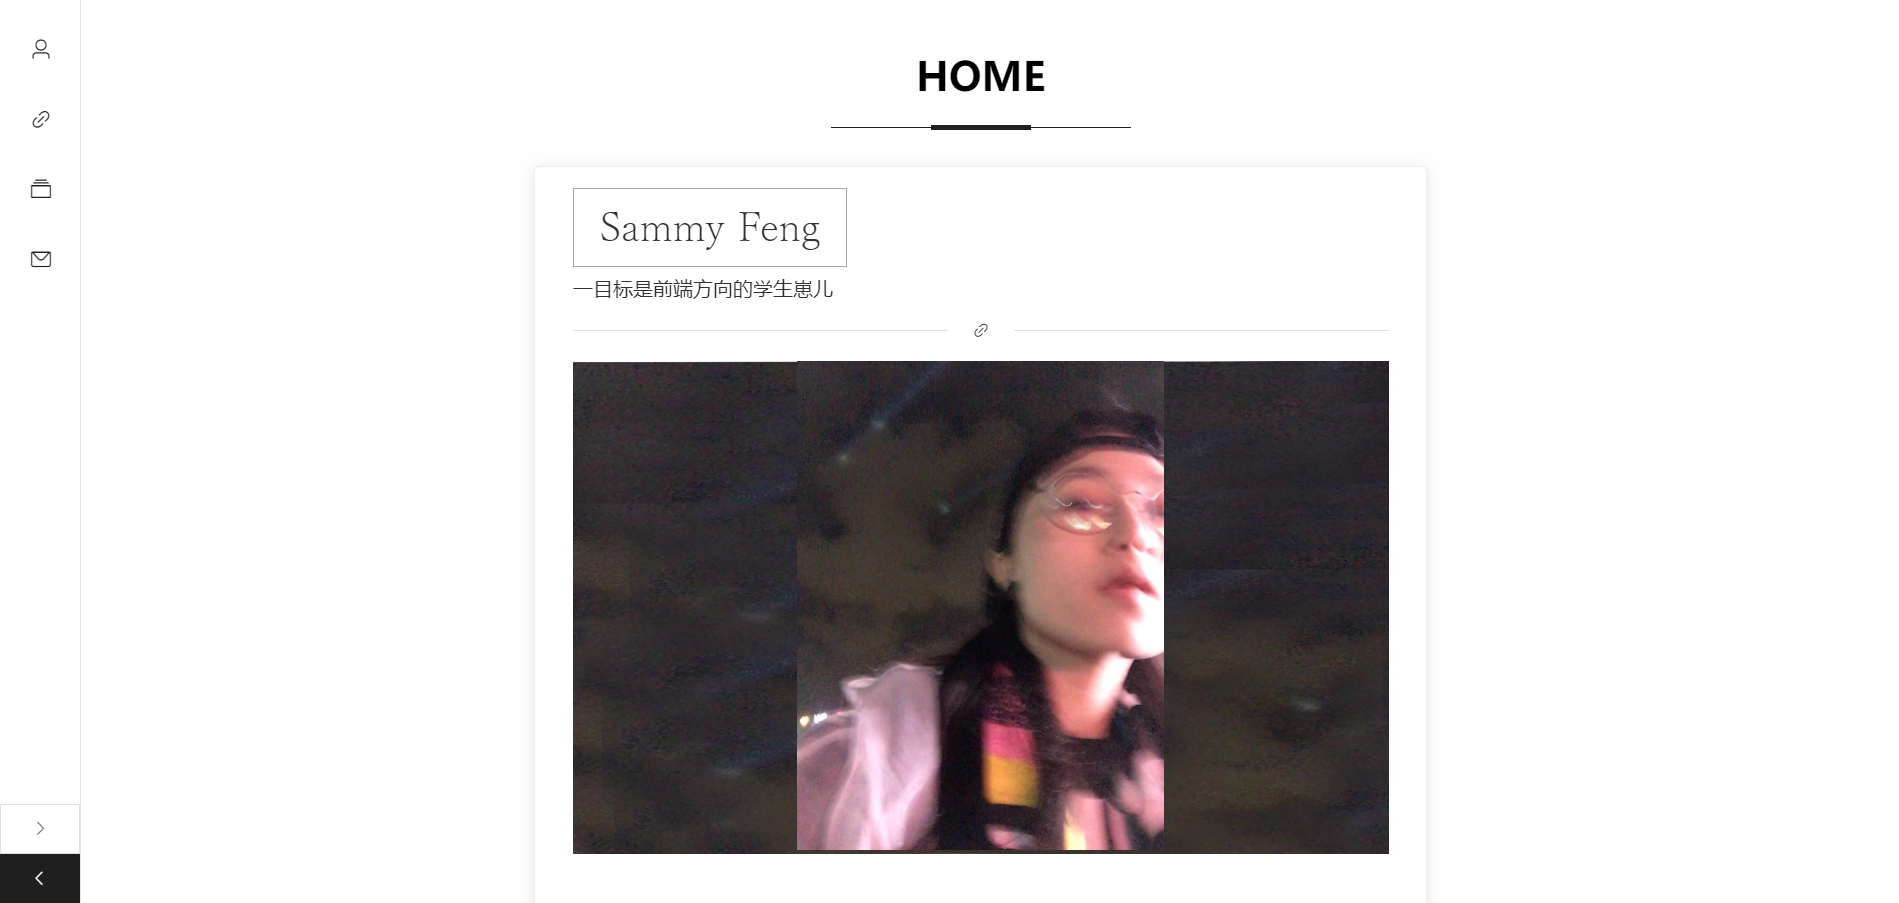
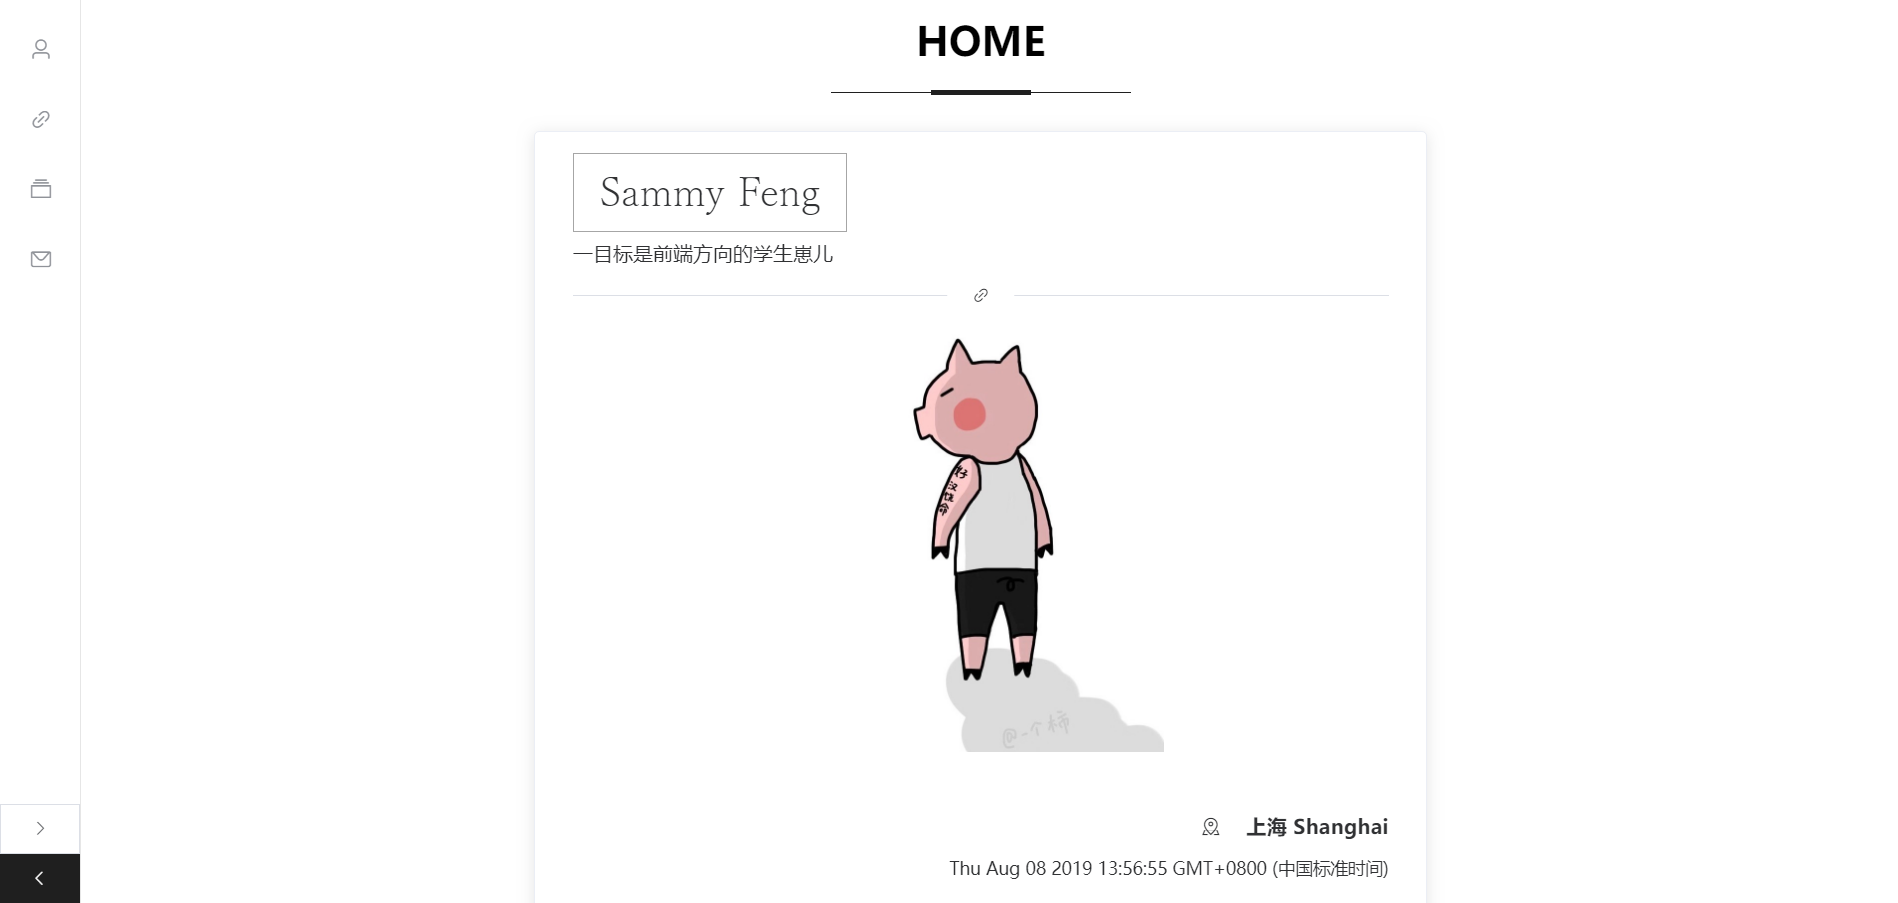
update my resume

Changed region(s): [[0.2798, 0.3721, 0.746, 0.9922], [0.3109, 0.186, 0.4352, 0.3411], [0.4663, 0.031, 0.5595, 0.155]]

diff --git a/my-homepage/src/assets/echarts/frontendSkillsBarChart.js b/my-homepage/src/assets/echarts/frontendSkillsBarChart.js
@@ -6,7 +6,7 @@ export const frontendOption = {
 
   },
   yAxis: {
-    data: ['React', 'Angular', 'Vue', 'AngularJS', 'Jquery', 'Bootstrap', 'Javascript', 'CSS(3)', 'HTML(5)'],
+    data: ['React', 'Angular', 'Vue', 'Jquery', 'Bootstrap', 'Javascript', 'CSS(3)', 'HTML(5)'],
     name: '前端技术',
     nameLocation: 'end',
     axisLabel: {
@@ -18,7 +18,7 @@ export const frontendOption = {
     name: '熟练度',
     type: 'bar',
     barWidth: '50%',
-    data: [20, 40, 50, 60, 80, 85, 65, 95, 90],
+    data: [20, 40, 50, 75, 70, 85, 75, 95, 90],
     itemStyle: {
       normal: {
         color: '#434dc6'

diff --git a/my-homepage/src/views/Home.vue b/my-homepage/src/views/Home.vue
@@ -26,7 +26,7 @@
 </template>
 
 <script>
-import MyPhoto from '@/assets/images/photo.jpg'
+import MyPhoto from '../../public/images/hp-photo.jpg'
 import TheTitle from '@/components/TheTitle.vue'
 
 export default {
@@ -49,8 +49,9 @@ export default {
 <style lang="scss" scoped>
   .photo-wrap{
     width:100%;
-    background-image: url('../assets/images/photocard-bg.jpg');
-    background-size: cover;
+    background-color: #fff;
+/*    background-image: url('../assets/images/photocard-bg.jpg');
+    background-size: cover;*/
     text-align: center;
   }
   .photo-card{

diff --git a/my-homepage/src/assets/echarts/otherSkillsBarChart.js b/my-homepage/src/assets/echarts/otherSkillsBarChart.js
@@ -5,7 +5,7 @@ export const otherOption = {
     max: 100
   },
   yAxis: {
-    data: ['Android', 'Git', 'Webpack', 'SQL', 'Photoshop'],
+    data: ['Android', 'Webpack', '部署发布', 'SQL', 'Photoshop', 'Git'],
     name: '其他技术',
     axisLabel: {
       interval: 0,
@@ -15,7 +15,7 @@ export const otherOption = {
   series: [{
     name: '熟练度',
     type: 'bar',
-    data: [30, 60, 60, 70, 90],
+    data: [30, 60, 80, 60, 80, 70],
     itemStyle: {
       normal: {
         color: '#e2ec58'

diff --git a/my-homepage/src/router.js b/my-homepage/src/router.js
@@ -5,7 +5,6 @@ import Home from './views/Home.vue'
 Vue.use(Router)
 
 export default new Router({
-  mode: 'history',
   base: process.env.BASE_URL,
   routes: [
     {
